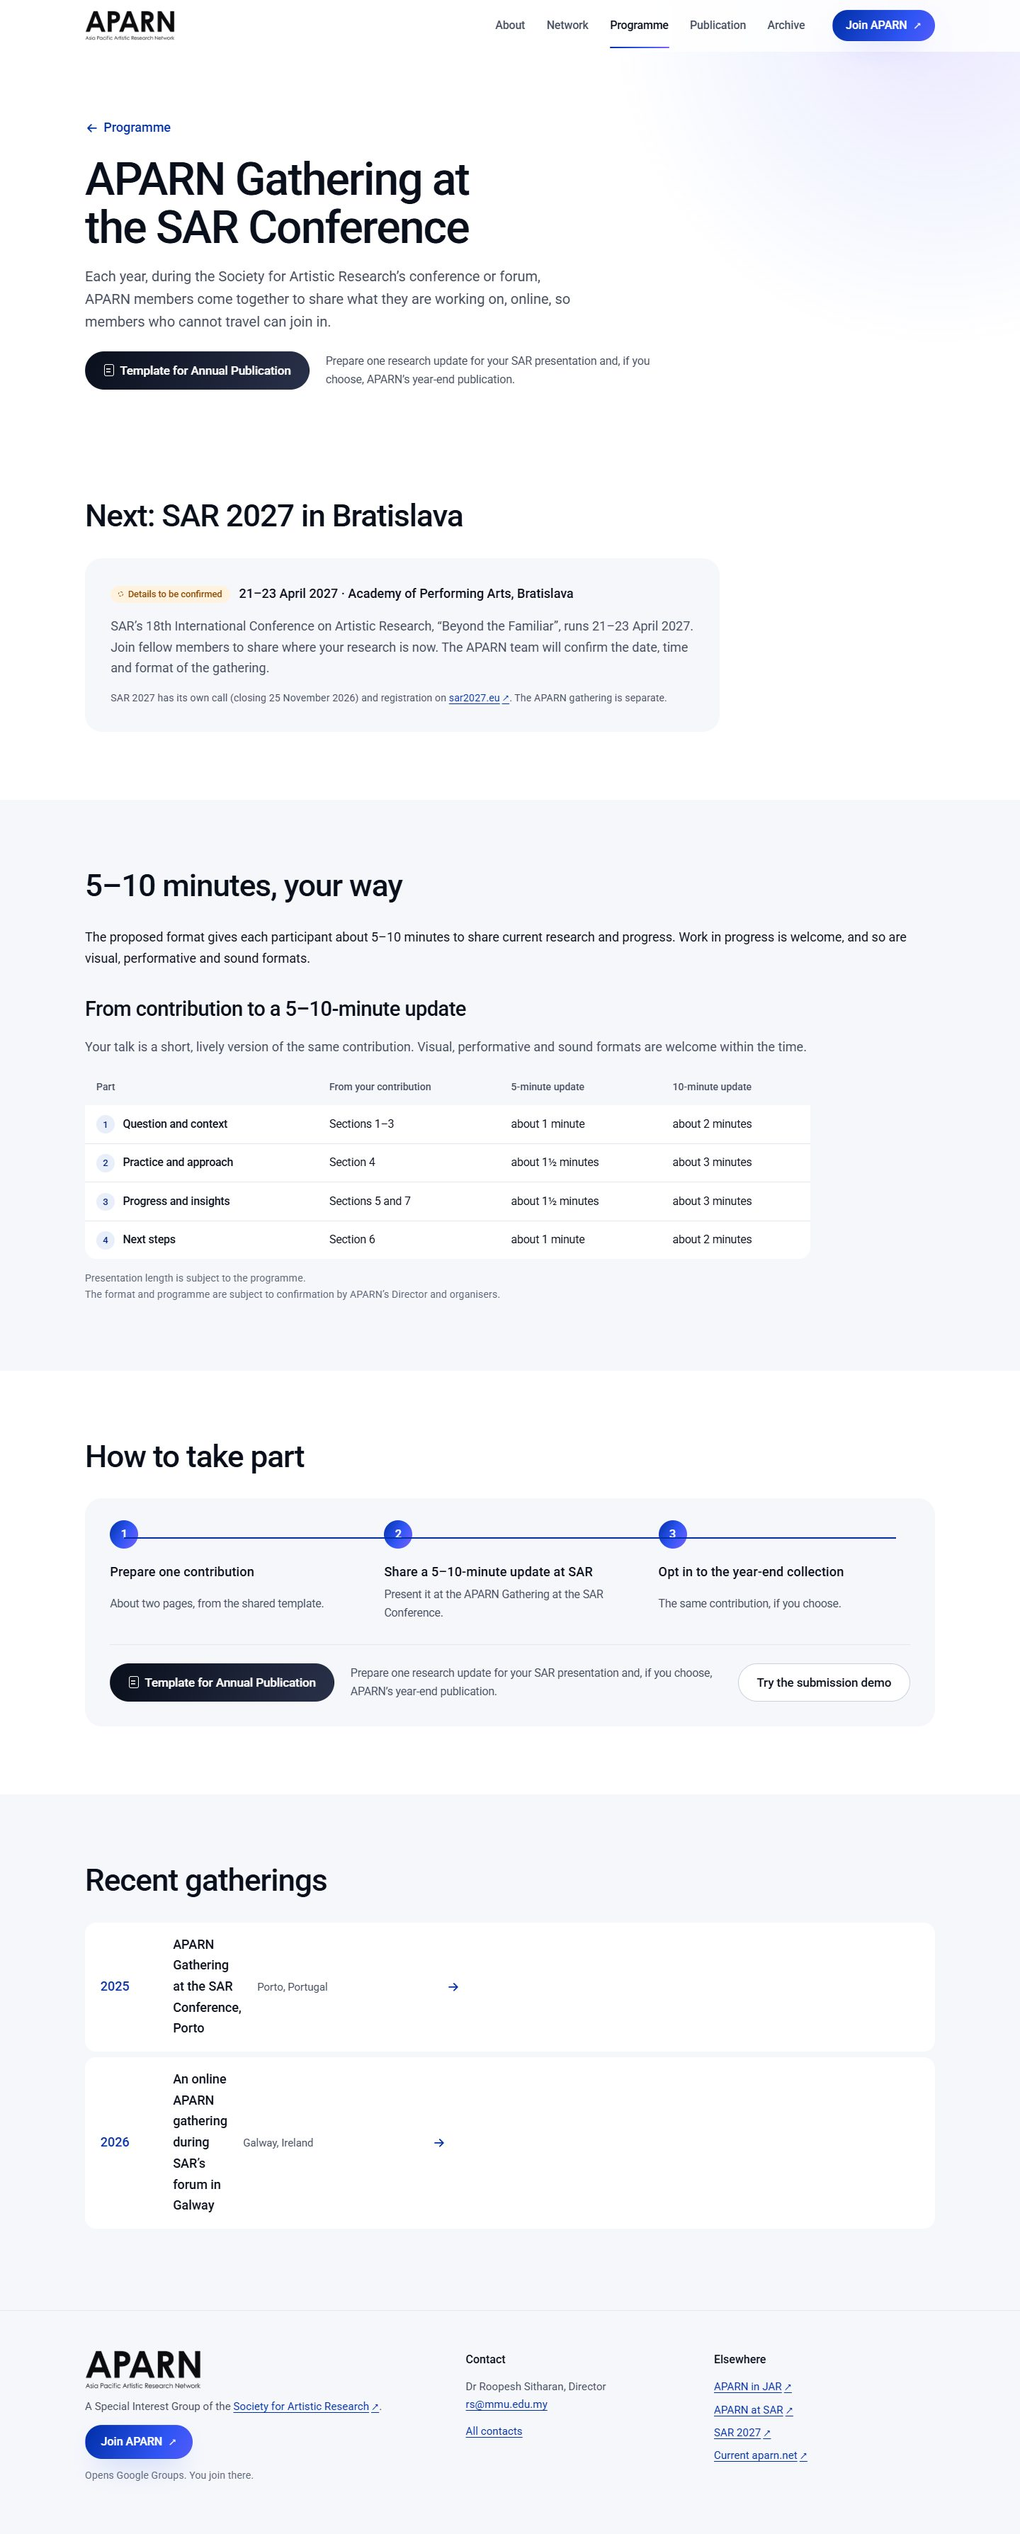
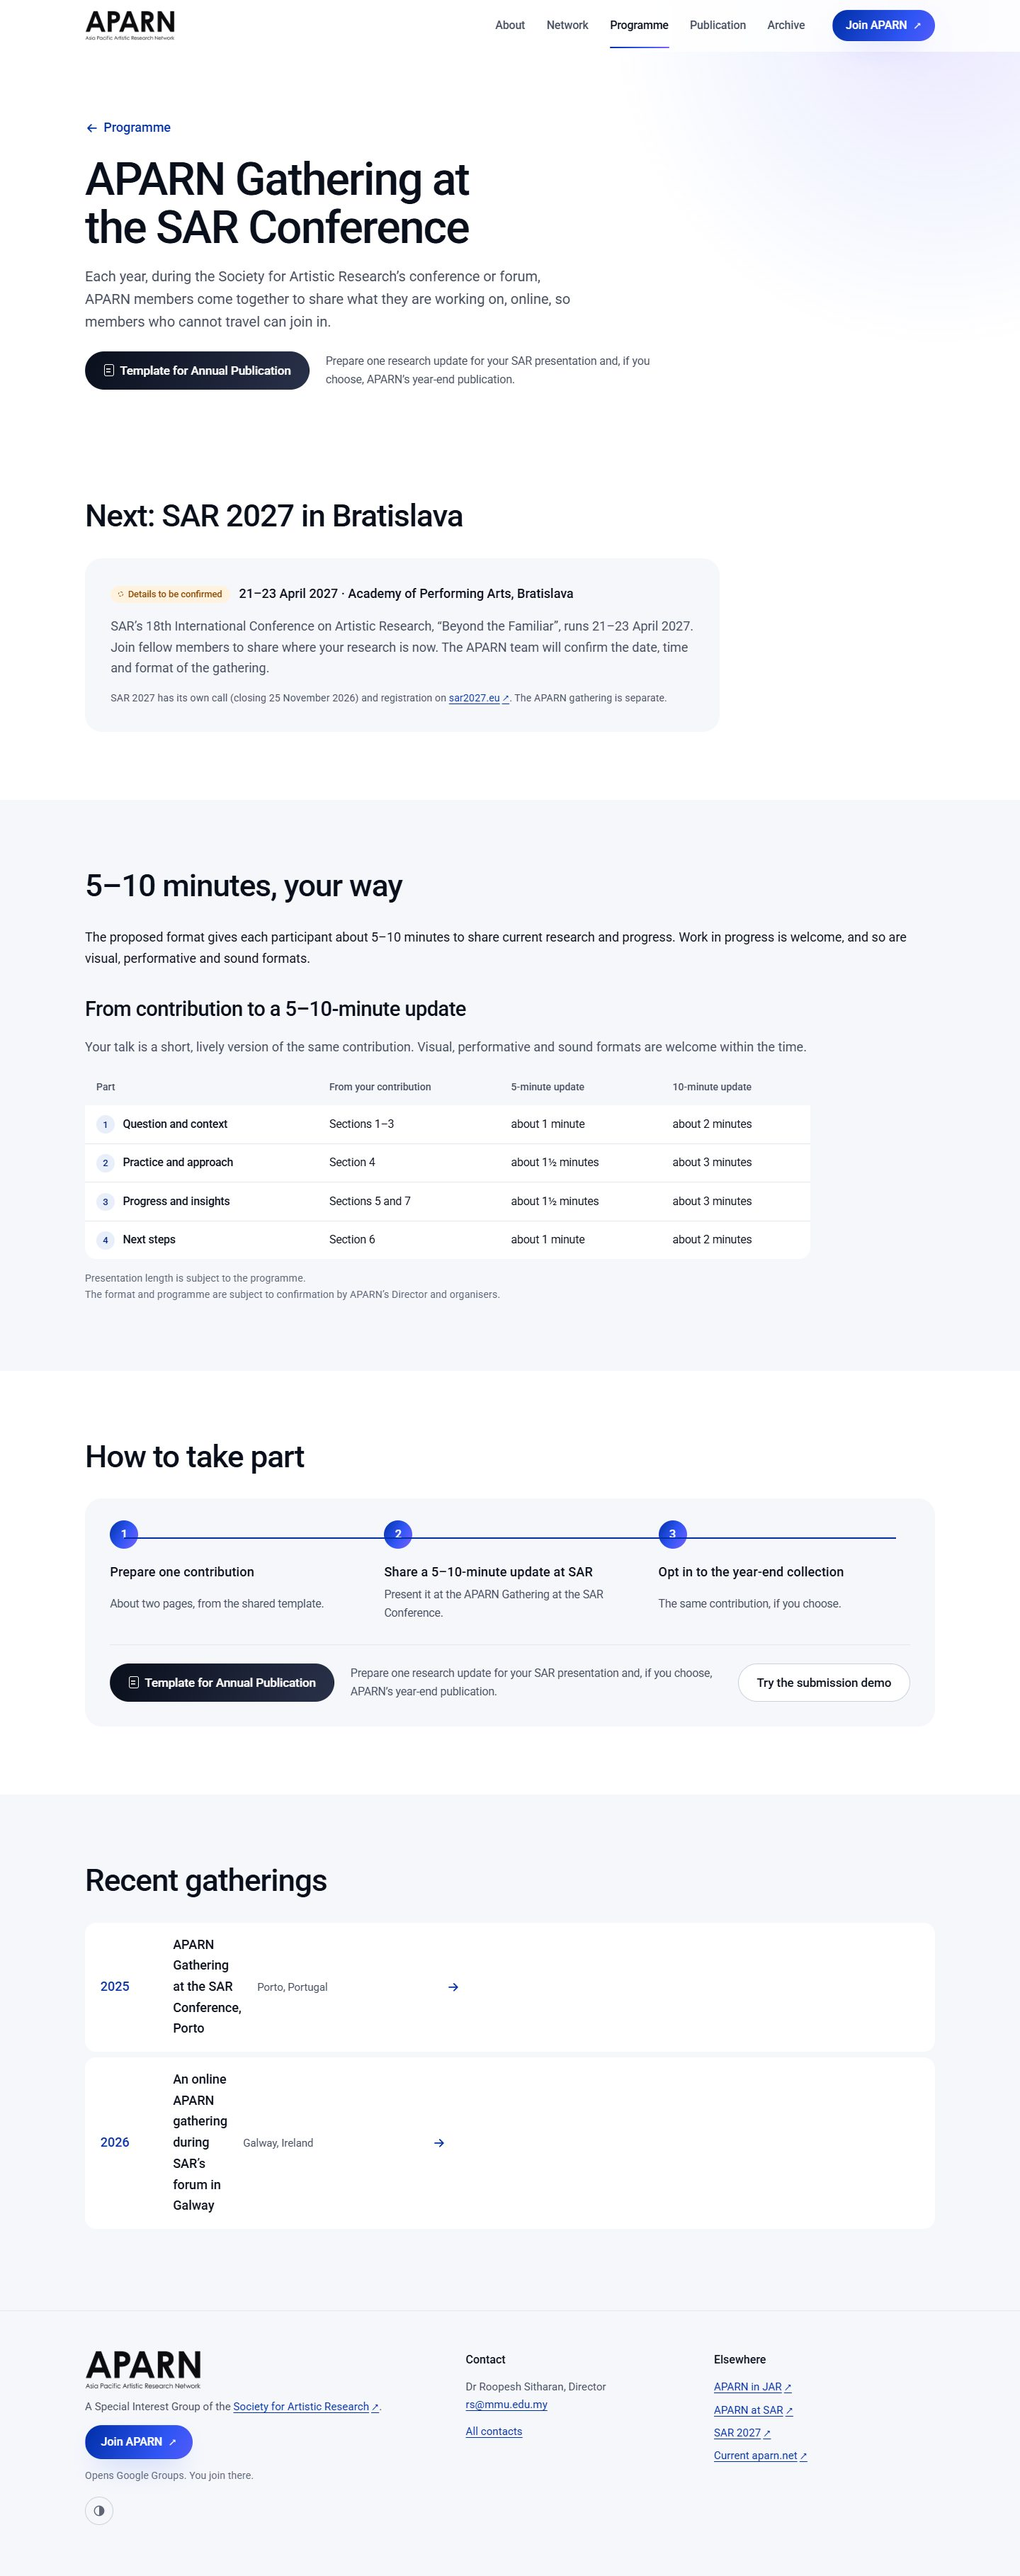
Concept C: quiet contrast (invert) button and open figure layout
A small round button at the foot of every Concept C page switches to a
dark, inverted palette with a soft fade, remembered between pages. The
figures on the Network page sit open instead of in cards.

diff --git a/src/concept-c/c.css b/src/concept-c/c.css
@@ -770,3 +770,59 @@ body::before { content: ""; position: fixed; z-index: -1; width: 64vmax; height:
 .logo img { display: block; height: 42px; width: auto; }
 @media (max-width: 47.99em) { .logo img { height: 34px; } }
 .foot .logo img { height: 54px; }
+
+/* ================================================================ inverted (dark) palette, from the quiet footer button */
+.invert-btn { display: inline-grid; place-items: center; width: 40px; height: 40px; margin-top: .4rem; border-radius: 50%; border: 1px solid var(--line-2); background: transparent; color: var(--ink-3); cursor: pointer; transition: color .25s, border-color .25s, transform .3s var(--ease); }
+.invert-btn svg { width: 18px; height: 18px; transition: transform .5s var(--ease); }
+.invert-btn:hover { color: var(--ink); border-color: var(--ink-3); }
+.invert-btn:hover svg { transform: rotate(180deg); }
+.invert-btn:active { transform: scale(.92); }
+html.vt-theme::view-transition-old(root) { animation: c-theme-out .5s ease both; }
+html.vt-theme::view-transition-new(root) { animation: c-theme-in .5s ease both; }
+@keyframes c-theme-out { to { opacity: 0; } }
+@keyframes c-theme-in { from { opacity: 0; } }
+html.invert {
+  --bg: #0B0F1A; --bg-2: #131A2B; --bg-3: #1C2438; --surface: #161E31;
+  --ink: #EEF2FA; --ink-2: #C3CADA; --ink-3: #9AA3B8; --line: rgba(255, 255, 255, .1); --line-2: rgba(255, 255, 255, .2);
+  --blue: #8EA8FF; --blue-2: #AFC2FF; --blue-soft: rgba(142, 168, 255, .14); --blue-ink: #D3DDFF;
+  --grad: linear-gradient(120deg, #3E6BFF 0%, #6F8CFF 52%, #A68BFF 100%);
+  --grad-soft: linear-gradient(135deg, #121A33 0%, #1B1736 55%, #10213A 100%);
+  --glow: 0 18px 40px -18px rgba(111, 140, 255, .55);
+  --shadow: 0 1px 2px rgba(0, 0, 0, .3), 0 10px 30px rgba(0, 0, 0, .35);
+  --shadow-up: 0 2px 4px rgba(0, 0, 0, .35), 0 18px 40px -10px rgba(0, 0, 0, .65);
+  color-scheme: dark;
+}
+html.invert .top { background: rgba(11, 15, 26, .86); }
+html.invert .menu { background: var(--bg); }
+html.invert .logo img { filter: invert(1); }
+html.invert :is(.menu-btn, .btn--ghost, .round, .chip, .hero-f, .next-i, .orb, .cpanel, .hop, .card a, .totop, .index-l, .index-d, .more--call, .steps li, .demo-steps li span, .demo-form fieldset.demo-step, .demo-review, .hways a:hover) { background: var(--surface); }
+html.invert .chip[aria-pressed="true"], html.invert .orb[aria-pressed="true"], html.invert .orbit-stage.is-live .orb.is-center { background: var(--grad); }
+html.invert .sec--tint :is(.way, .place-g, .pub, .person, .tline-c, .feature, .flow, .guide-table, .rows li, .rows--link a, .facts div, .orgs li, .record div, .aims li) { background: var(--surface); }
+html.invert .btn--template, html.invert .btn--download { background: #EEF2FA; color: #0B0F1A; }
+html.invert .btn--soft:hover { background: rgba(142, 168, 255, .22); }
+html.invert .status--tbc, html.invert .status--tba { background: rgba(255, 179, 71, .15); color: #FFC27A; }
+html.invert .status--announced, html.invert .status--upcoming { background: rgba(46, 204, 150, .15); color: #7EE0B8; }
+html.invert .hero { background-image: radial-gradient(circle at 1px 1px, rgba(255, 255, 255, .09) 1px, transparent 1.4px); }
+html.invert .hero::after { background: linear-gradient(to bottom, rgba(11, 15, 26, 0) 60%, var(--bg)); }
+html.invert .orbit-stage { background-image: radial-gradient(circle at 1px 1px, rgba(255, 255, 255, .08) 1px, transparent 1.4px); }
+html.invert .t-st circle { fill: var(--surface); }
+html.invert .hist li::before, html.invert .tline-dot { background: var(--bg); }
+html.invert .field input:not([type="radio"]):not([type="checkbox"]), html.invert .field textarea, html.invert .filter-search input { background: var(--bg); color: var(--ink); }
+html.invert .field-error { color: #FF9C93; }
+html.invert .field input[aria-invalid="true"] { border-color: #FF8A80; }
+html.invert .demo-errors { background: rgba(255, 90, 78, .14); color: #FFC1BB; }
+html.invert .demo-errors h3, html.invert .demo-errors a { color: #FFC1BB; }
+html.invert .demo-done { background: rgba(46, 204, 150, .14); color: #BFF2DE; }
+html.invert .demo-done h4 { color: #E3FFF3; }
+html.invert .grad-t { background-image: linear-gradient(90deg, #6F8CFF 0%, #A68BFF 25%, #7FD4FF 50%, #A68BFF 75%, #6F8CFF 100%); }
+html.invert .tpl-doc { --ink: #0A0F1C; --ink-2: #434B5C; --ink-3: #5E6676; --bg-2: #F5F7FB; --bg-3: #EBEFF6; --line: #E3E8F0; --line-2: #C9D1DE; --blue: #002FA7; --blue-soft: #E9EEFB; --blue-ink: #00217A; background: #fff; color: var(--ink); }
+
+/* figures sit open (no cards) on every page, including tinted sections */
+.figs-i, .sec--tint .figs-i { background: none; border: 0; border-radius: 0; box-shadow: none; padding: 1.3rem 0 0; }
+.figs { gap: 2.4rem 2rem; }
+.figs-i dd { gap: .45rem; }
+.figs-n { max-width: 22rem; }
+/* dark palette: a deeper closing band so white text and the white button stay clear */
+html.invert .hclose { background: linear-gradient(120deg, #1D36B8 0%, #3D4FD6 52%, #6A4FD8 100%); }
+html.invert .hclose .btn--join { background: #fff; color: #1D36B8; }
+html.invert .hclose .btn--join:hover { color: #142A99; }

diff --git a/src/concept-c/c.js b/src/concept-c/c.js
@@ -1,6 +1,6 @@
-/* Concept C: Clear Signal. The sliding navigation bar, the section index and the network orbit.
-   Smooth scrolling, reveals, counters, the press ripple and the Animations switch come from the shared motion.js.
-   Nothing is stored and nothing is sent anywhere. */
+/* Concept C: Clear Signal. The sliding navigation bar, the section index, the network orbit and the contrast button.
+   Smooth scrolling, reveals, counters and the press ripple come from the shared motion.js.
+   The only thing stored is the contrast choice (localStorage "aparn-invert"); nothing is sent anywhere. */
 (function () {
   "use strict";
   var d = document, root = d.documentElement;
@@ -111,6 +111,32 @@
     });
   }
 
-  function init() { initNavBar(); initIndex(); initOrbit(); }
+  /* the quiet contrast button in the footer: a dark, inverted palette, remembered from page to page */
+  function initInvert() {
+    var btn = d.querySelector("[data-invert]");
+    if (!btn) return;
+    var meta = d.querySelector('meta[name="theme-color"]');
+    function sync() {
+      var on = root.classList.contains("invert");
+      btn.setAttribute("aria-pressed", on ? "true" : "false");
+      if (meta) meta.setAttribute("content", on ? "#0B0F1A" : "#ffffff");
+    }
+    function flip() {
+      var on = !root.classList.contains("invert");
+      root.classList.toggle("invert", on);
+      try { window.localStorage.setItem("aparn-invert", on ? "on" : "off"); } catch (e) { /* storage may be blocked */ }
+      sync();
+    }
+    btn.hidden = false;
+    btn.addEventListener("click", function () {
+      if (!d.startViewTransition || still()) { flip(); return; }
+      root.classList.add("vt-theme");
+      var vt = d.startViewTransition(flip);
+      vt.finished.then(function () { root.classList.remove("vt-theme"); }, function () { root.classList.remove("vt-theme"); });
+    });
+    sync();
+  }
+
+  function init() { initNavBar(); initIndex(); initOrbit(); initInvert(); }
   if (d.readyState === "loading") d.addEventListener("DOMContentLoaded", init); else init();
 })();

diff --git a/README.md b/README.md
@@ -109,6 +109,11 @@ Animations are always on, as requested, including on devices whose owners ask fo
 "Animation effects" turned off). To respect that setting again, change `HEAD_MOTION` in `src/lib.mjs` so that it
 adds the class `anim` only when `prefers-reduced-motion` is not `reduce`. Nothing is stored in the browser.
 
+## Contrast in Concept C
+
+A small round button at the bottom of Concept C's footer switches to an inverted, dark palette and back, with a
+soft fade. The choice is remembered in that browser (localStorage, key `aparn-invert`).
+
 ## Updating content
 
 Edit the JSON in `content/`, then build and deploy. Common tasks:
